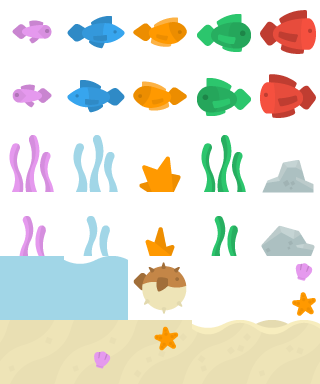
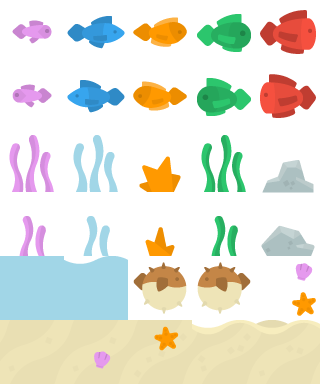
added left pufferfish

Changed region(s): [[0.5938, 0.6875, 0.7812, 0.8125]]

diff --git a/scripts/listeners.js b/scripts/listeners.js
@@ -8,7 +8,6 @@ $(function() {
 	window.addEventListener('resize', handleResize);
 	handleResize();
 
-
 	for(let i=0; i<60; i++) { // num is arbitrary, just has to be larger than screen
 		if(Math.random() >= 0.6)
 			$('#sea-items').append('<img src="img/sea-item-' + random(1,9) + '.png" class="sea-item">');

diff --git a/scripts/sprites.js b/scripts/sprites.js
@@ -22,6 +22,10 @@ let sprite_coords = {
 		[LEFT]: {x:3, y:1},
 		[RIGHT]: {x:3, y:0}
 	},
+	[PUFF]: {
+		[LEFT]: {x:3, y:4},
+		[RIGHT]: {x:2, y:4}
+	}
 };
 
 // call onload
